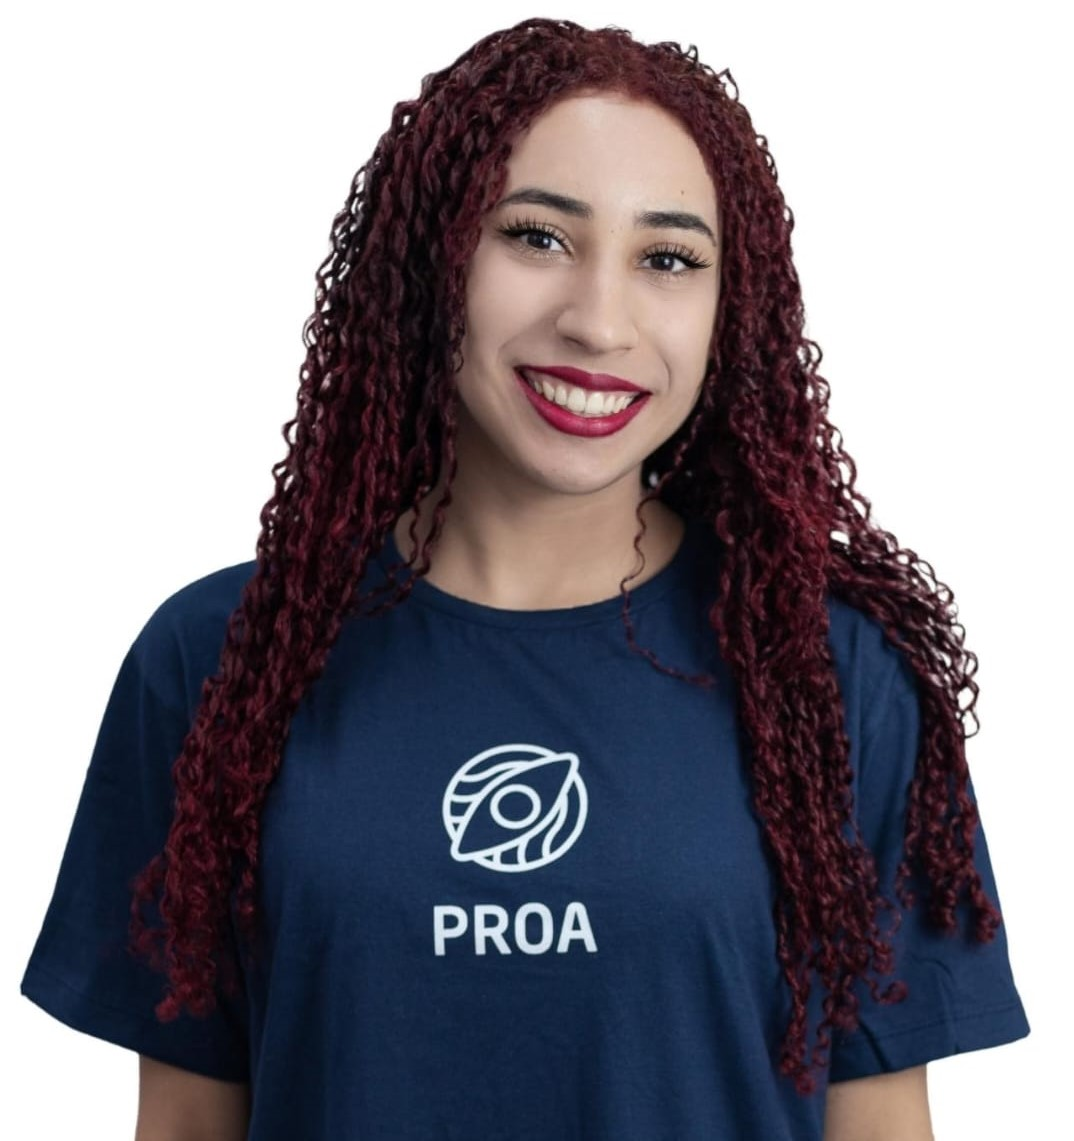
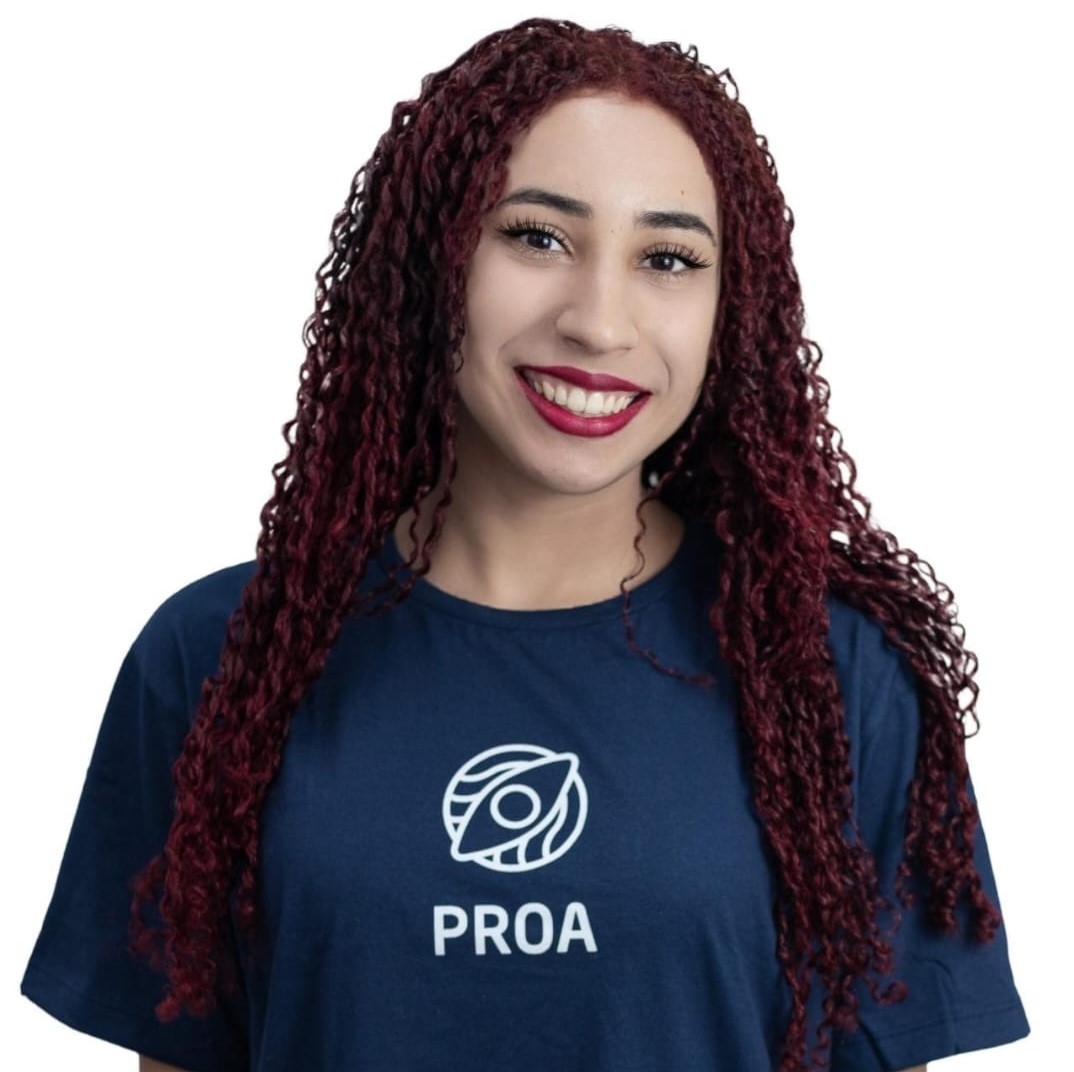
atualizando o código

diff --git a/index.html b/index.html
@@ -54,7 +54,7 @@
 					</div>
 					<div class="col">
 						<div class="row p-4 justify-content-center justify-content-md-between">
-							<div class="primary-info col-auto">
+							<div class="primary-info col-auto" style="width: 400px;">
 								<h1 class="name mt-0 mb-1 text-white text-uppercase text-uppercase">Larissa Rocha Dias</h1>
 								<div class="title mb-3">Estudante de Desenvolvimento Web Java</div>
 								<ul class="list-unstyled">

diff --git a/assets/css/bootstrap-6.css b/assets/css/bootstrap-6.css
@@ -11764,16 +11764,8 @@ a.theme-btn-on-bg:hover, a.theme-btn-on-bg:focus, a.theme-btn-on-bg:active, .the
   height: 220px;
 }
 
-
-.resume-header .imagem{
-  width: 240px;
-  height: 274px;
-}
-
 .resume-header .picture {
-  width: inherit;
-  height: inherit;
-  object-fit: cover;
+  width: 220px;
 }
 
 .resume-header .name {
